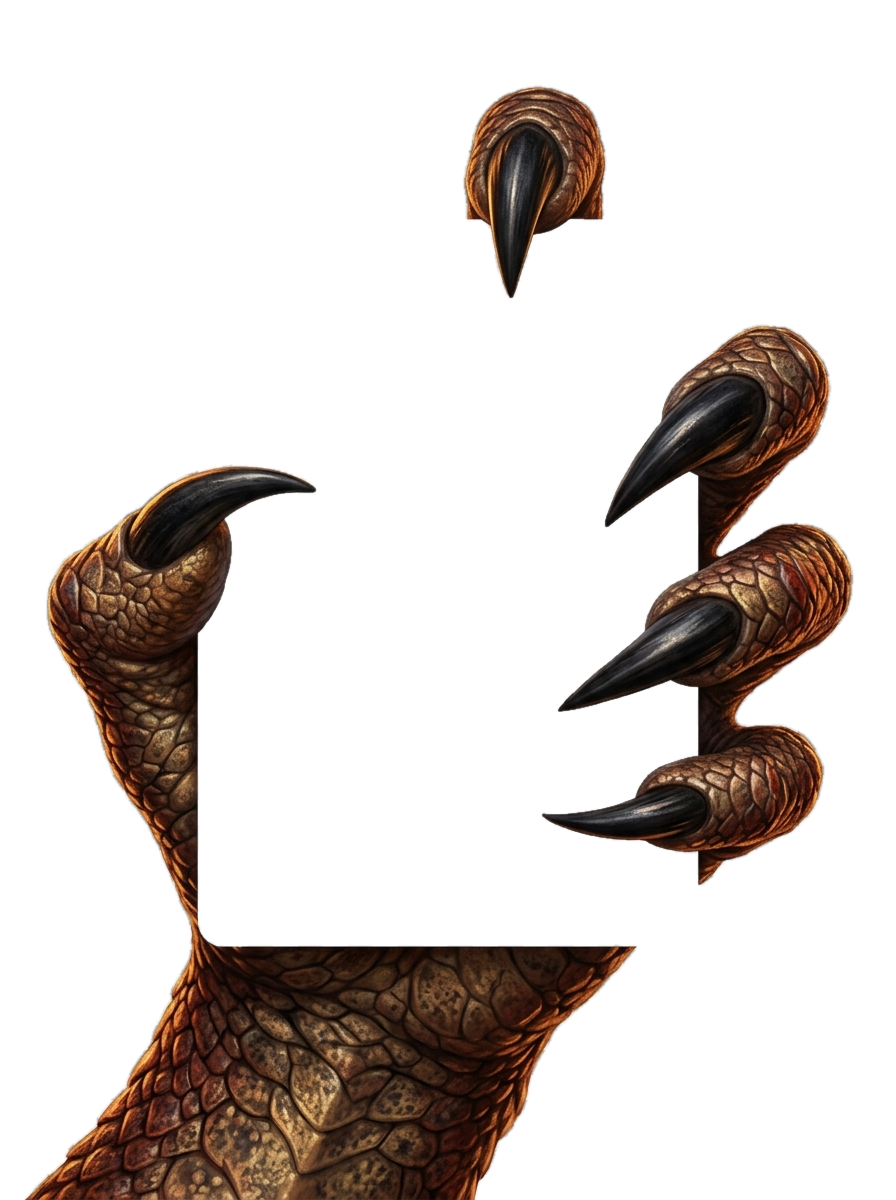
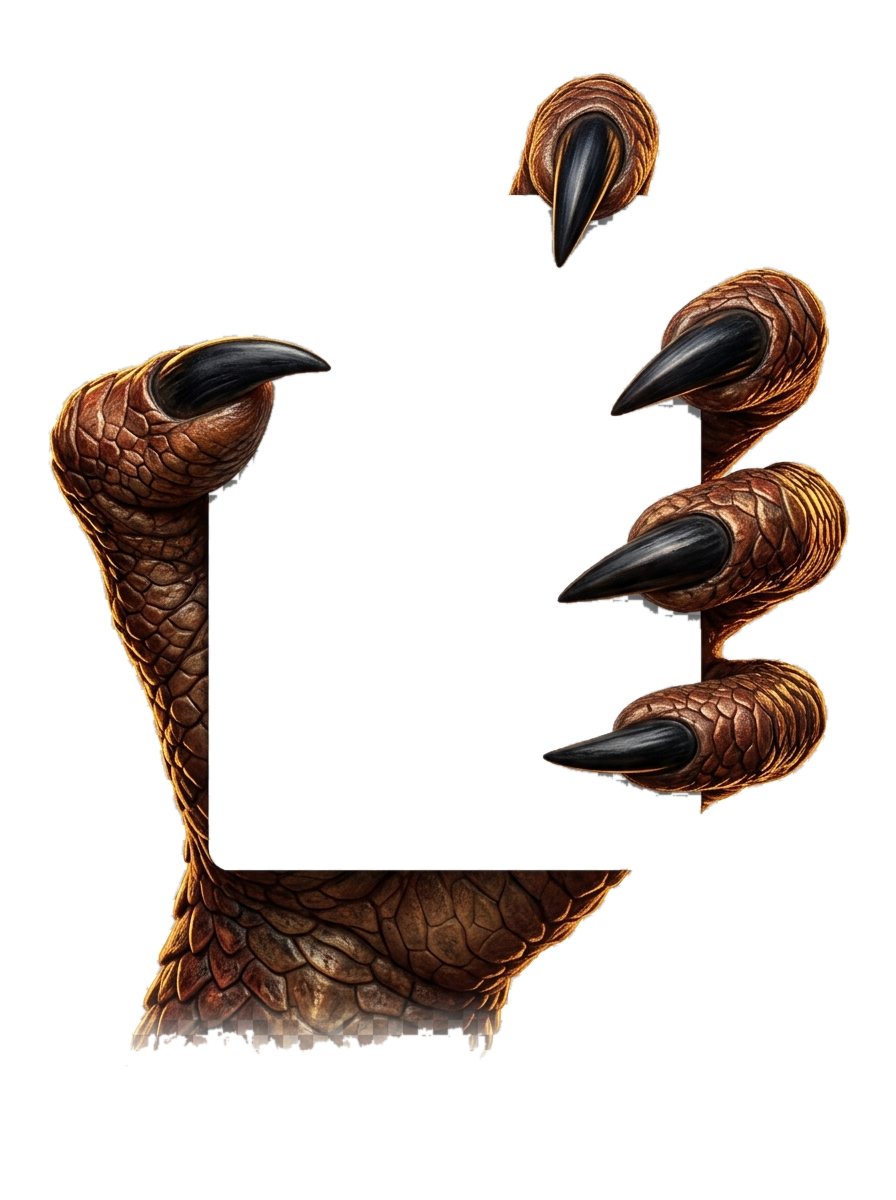
auto-commit for 95b40c2f-5cee-4502-92a2-d34d17544886

diff --git a/frontend/src/components/SocialShare.jsx b/frontend/src/components/SocialShare.jsx
@@ -5,14 +5,28 @@ import { useLang } from "../i18n/i18n";
 
 export default function SocialShare({ card }) {
   const { t } = useLang();
-  const url = window.location.origin;
+  const origin = window.location.origin;
+  const API = `${process.env.REACT_APP_BACKEND_URL}/api`;
+  // Build a share URL that Facebook / iMessage / WhatsApp crawlers can hit
+  // to pull dynamic OG tags for the winning restaurant (image, name, price).
+  // Falls back to the raw origin when no card is present.
+  const shareUrl = card
+    ? `${API}/share?${new URLSearchParams({
+        id: card.id || "",
+        name: card.name || "",
+        cuisine: card.cuisine || "",
+        price: card.price || "",
+        distance: card.distance != null ? String(card.distance) : "",
+        image: card.image || "",
+      }).toString()}`
+    : origin;
   const text = card
     ? `\u2620 The reaper has spoken: ${card.name} (${card.cuisine} \u00b7 ${card.price})${card.distance ? ` — ${card.distance} mi away` : ""}! Deal your own fate on Fork\u00b7Fate:`
     : `Let fate pick your next meal, drink or dessert — shuffle the deck on Fork\u00b7Fate!`;
-  const full = `${text} ${url}`;
+  const full = `${text} ${shareUrl}`;
 
-  const openShare = (shareUrl) =>
-    window.open(shareUrl, "_blank", "noopener,noreferrer,width=600,height=520");
+  const openShare = (u) =>
+    window.open(u, "_blank", "noopener,noreferrer,width=600,height=520");
 
   const copyFor = async (platform) => {
     try {
@@ -29,14 +43,14 @@ export default function SocialShare({ card }) {
       label: "Facebook",
       Icon: Facebook,
       color: "#1877F2",
-      onClick: () => openShare(`https://www.facebook.com/sharer/sharer.php?u=${encodeURIComponent(url)}&quote=${encodeURIComponent(text)}`),
+      onClick: () => openShare(`https://www.facebook.com/sharer/sharer.php?u=${encodeURIComponent(shareUrl)}&quote=${encodeURIComponent(text)}`),
     },
     {
       key: "x",
       label: "X",
       Icon: Twitter,
       color: "#0E0E0E",
-      onClick: () => openShare(`https://twitter.com/intent/tweet?text=${encodeURIComponent(text)}&url=${encodeURIComponent(url)}`),
+      onClick: () => openShare(`https://twitter.com/intent/tweet?text=${encodeURIComponent(text)}&url=${encodeURIComponent(shareUrl)}`),
     },
     {
       key: "whatsapp",

diff --git a/frontend/src/components/ShufflingDeck.jsx b/frontend/src/components/ShufflingDeck.jsx
@@ -203,7 +203,7 @@ export function ShufflingDeck({ cards, flash, landed, light, theme, season, seas
             {landed && theme === "fantasy" && (
               <motion.div
                 className="pointer-events-none absolute left-1/2 top-1/2 z-50"
-                style={{ transform: "translate(calc(-50% - 8px), calc(-50% - 18px))" }}
+                style={{ transform: "translate(-50%, calc(-50% - 18px))" }}
                 initial={{ opacity: 0 }}
                 animate={{ opacity: 1 }}
                 exit={{ opacity: 0 }}
@@ -222,17 +222,12 @@ export function ShufflingDeck({ cards, flash, landed, light, theme, season, seas
                   className="w-[310px] max-w-none select-none"
                   style={{
                     filter: "drop-shadow(0 10px 16px rgba(0,0,0,0.55))",
-                    // Trim the wrist/arm off the bottom of the asset — the raw
-                    // PNG's forearm dips onto the card face, hiding the
-                    // sponsor/venue name. 22% keeps palm + talons intact.
                     clipPath: "inset(0 0 22% 0)",
                     WebkitClipPath: "inset(0 0 22% 0)",
-                    // Stretch the claw horizontally so the right-side
-                    // fingers reach past the card's outer gold border, not
-                    // stopping at the inner red line. Single flat PNG so
-                    // this also splays the thumb outward on the left.
-                    transform: "scaleX(1.38)",
-                    transformOrigin: "center",
+                    // Small horizontal splay so the thumb and 3 finger claws
+                    // each drift a hair outward from center — reads more
+                    // like an open grip than a pinch.
+                    transform: "scaleX(1.10)",
                   }}
                   initial={{ scale: 1.2, rotate: -3 }}
                   animate={{ scale: 1, rotate: 0 }}

diff --git a/frontend/src/components/FateActionsDropdown.jsx b/frontend/src/components/FateActionsDropdown.jsx
@@ -27,11 +27,25 @@ export function FateActionsDropdown({
   const { t } = useLang();
   if (!card) return null;
 
-  const url = window.location.origin;
+  const origin = window.location.origin;
+  const API = `${process.env.REACT_APP_BACKEND_URL}/api`;
+  // Route social shares through /api/share which serves dynamic OG tags so
+  // Facebook / iMessage / WhatsApp previews show the winning restaurant
+  // (name, image, cuisine, distance) instead of the static Fork·Fate logo.
+  const url = `${API}/share?${new URLSearchParams({
+    id: card.id || "",
+    name: card.name || "",
+    cuisine: card.cuisine || "",
+    price: card.price || "",
+    distance: card.distance != null ? String(card.distance) : "",
+    image: card.image || "",
+  }).toString()}`;
   const shareText =
     `\u2620 The reaper has spoken: ${card.name} (${card.cuisine} \u00b7 ${card.price})` +
     `${card.distance ? ` — ${card.distance} mi away` : ""}! Deal your own fate on Fork\u00b7Fate:`;
   const full = `${shareText} ${url}`;
+  // eslint-disable-next-line no-unused-vars
+  const _origin = origin;
 
   const openWindow = (shareUrl) =>
     window.open(shareUrl, "_blank", "noopener,noreferrer,width=600,height=520");

diff --git a/backend/routes/share.py b/backend/routes/share.py
@@ -1,0 +1,78 @@
+"""Dynamic Open Graph share endpoint.
+
+Fork·Fate is a client-rendered SPA. When users share their winning fate on
+Facebook / iMessage / WhatsApp, the crawler fetches the shared URL and reads
+Open Graph meta tags — but the static `index.html` only advertises the
+Fork·Fate logo/description, so every share preview looked identical
+regardless of which restaurant fate picked.
+
+This route accepts the winner's details as query params, emits a tiny HTML
+document with the correct OG tags (title, description, image), and then
+meta-refreshes real users to the app home. Crawlers see the OG tags and
+skip the refresh; humans get redirected in ~0.4s so it's imperceptible.
+"""
+from fastapi import APIRouter, Query, Response
+from html import escape
+
+router = APIRouter()
+
+PROD_URL = "https://fork-fate.com"
+
+
+@router.get("/share")
+async def share_preview(
+    name: str = Query("", max_length=200),
+    cuisine: str = Query("", max_length=100),
+    price: str = Query("", max_length=8),
+    distance: str = Query("", max_length=20),
+    image: str = Query("", max_length=1000),
+    id: str = Query("", max_length=64),
+):
+    """Return an HTML page with dynamic OG tags for social share crawlers."""
+    safe_name = escape(name or "Fork·Fate")
+    safe_cuisine = escape(cuisine)
+    safe_price = escape(price)
+    safe_distance = escape(distance)
+
+    parts = [p for p in [safe_cuisine, safe_price] if p]
+    subtitle = " · ".join(parts)
+    if safe_distance:
+        subtitle = f"{subtitle} · {safe_distance} mi away" if subtitle else f"{safe_distance} mi away"
+
+    title = f"The reaper has spoken: {safe_name}" if name else "Fork·Fate — Restaurant Roulette"
+    description = (
+        f"{subtitle}. Deal your own fate on Fork·Fate — restaurant roulette."
+        if subtitle else "Can't decide where to eat? Let fate deal your next meal, drink or dessert."
+    )
+    og_image = image if (image and image.startswith("http")) else f"{PROD_URL}/og-image.png?v=2"
+
+    # Landing URL preserves the sponsor deep-link pattern used elsewhere so
+    # opening the share from a crawler-followed link still highlights the spot.
+    landing = f"{PROD_URL}/?sponsor={escape(id)}" if id else f"{PROD_URL}/"
+
+    html = f"""<!DOCTYPE html>
+<html lang="en">
+<head>
+  <meta charset="utf-8">
+  <title>{title}</title>
+  <meta property="og:type" content="website">
+  <meta property="og:site_name" content="Fork·Fate">
+  <meta property="og:title" content="{title}">
+  <meta property="og:description" content="{escape(description)}">
+  <meta property="og:image" content="{escape(og_image)}">
+  <meta property="og:image:width" content="1200">
+  <meta property="og:image:height" content="630">
+  <meta property="og:url" content="{escape(landing)}">
+  <meta name="twitter:card" content="summary_large_image">
+  <meta name="twitter:title" content="{title}">
+  <meta name="twitter:description" content="{escape(description)}">
+  <meta name="twitter:image" content="{escape(og_image)}">
+  <meta http-equiv="refresh" content="0; url={escape(landing)}">
+  <link rel="canonical" href="{escape(landing)}">
+</head>
+<body style="margin:0;font-family:system-ui;padding:2rem;text-align:center;background:#0E0E0E;color:#fff;">
+  <p>Opening Fork·Fate…</p>
+  <p><a href="{escape(landing)}" style="color:#E6B23A;">Tap here if you're not redirected</a></p>
+</body>
+</html>"""
+    return Response(content=html, media_type="text/html; charset=utf-8")

diff --git a/scripts/gen_dragon_claw.py b/scripts/gen_dragon_claw.py
@@ -20,22 +20,25 @@ load_dotenv("/app/backend/.env")
 OUT_PATH = "/app/frontend/public/dragon-claw.png"
 
 PROMPT = (
-    "A single photorealistic dragon paw / clawed hand gripping a rectangular "
-    "card-shaped empty area in the center of the image — as if the dragon is "
-    "holding up a portrait card. Anatomy: ONE thumb (shorter, hooked, opposable) "
-    "curling around the LEFT edge of the card near the middle-bottom, plus "
-    "THREE longer fingers with massive curved talons draping over the RIGHT "
-    "edge of the card from top to bottom, each talon curling inward toward the "
-    "card. Textured bronze and copper-red scaled reptilian skin with subtle "
-    "molten-gold rim light along the edges (matching a fire-lit red-bronze "
-    "dragon in a treasure hoard cave). Obsidian-black pointed nails on every "
-    "talon. Behind the card is the back of the palm — but the center of the "
-    "image (the rectangular card area, roughly 55% of the width and 70% of "
-    "the height, centered) is COMPLETELY TRANSPARENT — do not draw anything "
-    "inside the card gap. No arms, no wrist, no dragon body — just the one "
-    "hand cropped tightly around the card. Fully transparent background "
-    "(alpha channel). Aspect ratio 3:4 portrait, high detail, moody cinematic "
-    "lighting from below, no text, no watermark."
+    "A single photorealistic dragon paw gripping a rectangular card in the "
+    "center of the image. STRICT COMPOSITION — critical: paint the thumb at "
+    "the FAR LEFT EDGE of the image (extending to the very left border of "
+    "the canvas), and paint the three finger claws at the FAR RIGHT EDGE "
+    "of the image (extending to the very right border of the canvas). The "
+    "palm sits at the center. Anatomy: ONE opposable thumb-claw curling "
+    "around the LEFT edge of the card (hooked, short), and THREE longer "
+    "finger-claws draping over the RIGHT edge of the card evenly spaced "
+    "from top to bottom, each curling inward. Four claws total. NO WRIST, "
+    "NO ARM, NO FOREARM — nothing below the palm. The bottom third of the "
+    "image is empty (transparent). Texture: bronze and copper-red scaled "
+    "reptilian skin with molten-gold rim light along the edges. "
+    "Obsidian-black pointed nails. The center rectangular card area "
+    "(roughly 40% width, 65% height, centered) must be COMPLETELY "
+    "TRANSPARENT. Fully transparent background (alpha channel). Aspect "
+    "ratio 3:4 portrait, high detail, moody cinematic lighting, no text, "
+    "no watermark. The thumb and finger claws must nearly touch the LEFT "
+    "and RIGHT canvas edges respectively so that when this image is "
+    "overlaid on a card, the claws extend visually past the card's edges."
 )
 
 

diff --git a/backend/server.py b/backend/server.py
@@ -7,7 +7,7 @@ from starlette.middleware.cors import CORSMiddleware
 
 from core import client, logger, ALLOWED_ORIGIN_REGEX
 from seed_data import seed_db
-from routes import restaurants, stats, crawls, places, sponsors, admin, passkey, merch, passports, weather
+from routes import restaurants, stats, crawls, places, sponsors, admin, passkey, merch, passports, weather, share
 from routes.sponsors import reconcile_sponsors
 
 app = FastAPI()
@@ -23,6 +23,7 @@ api_router.include_router(sponsors.router)
 api_router.include_router(admin.router)
 api_router.include_router(passkey.router)
 api_router.include_router(merch.router)
+api_router.include_router(share.router)
 
 app.include_router(api_router)
 
